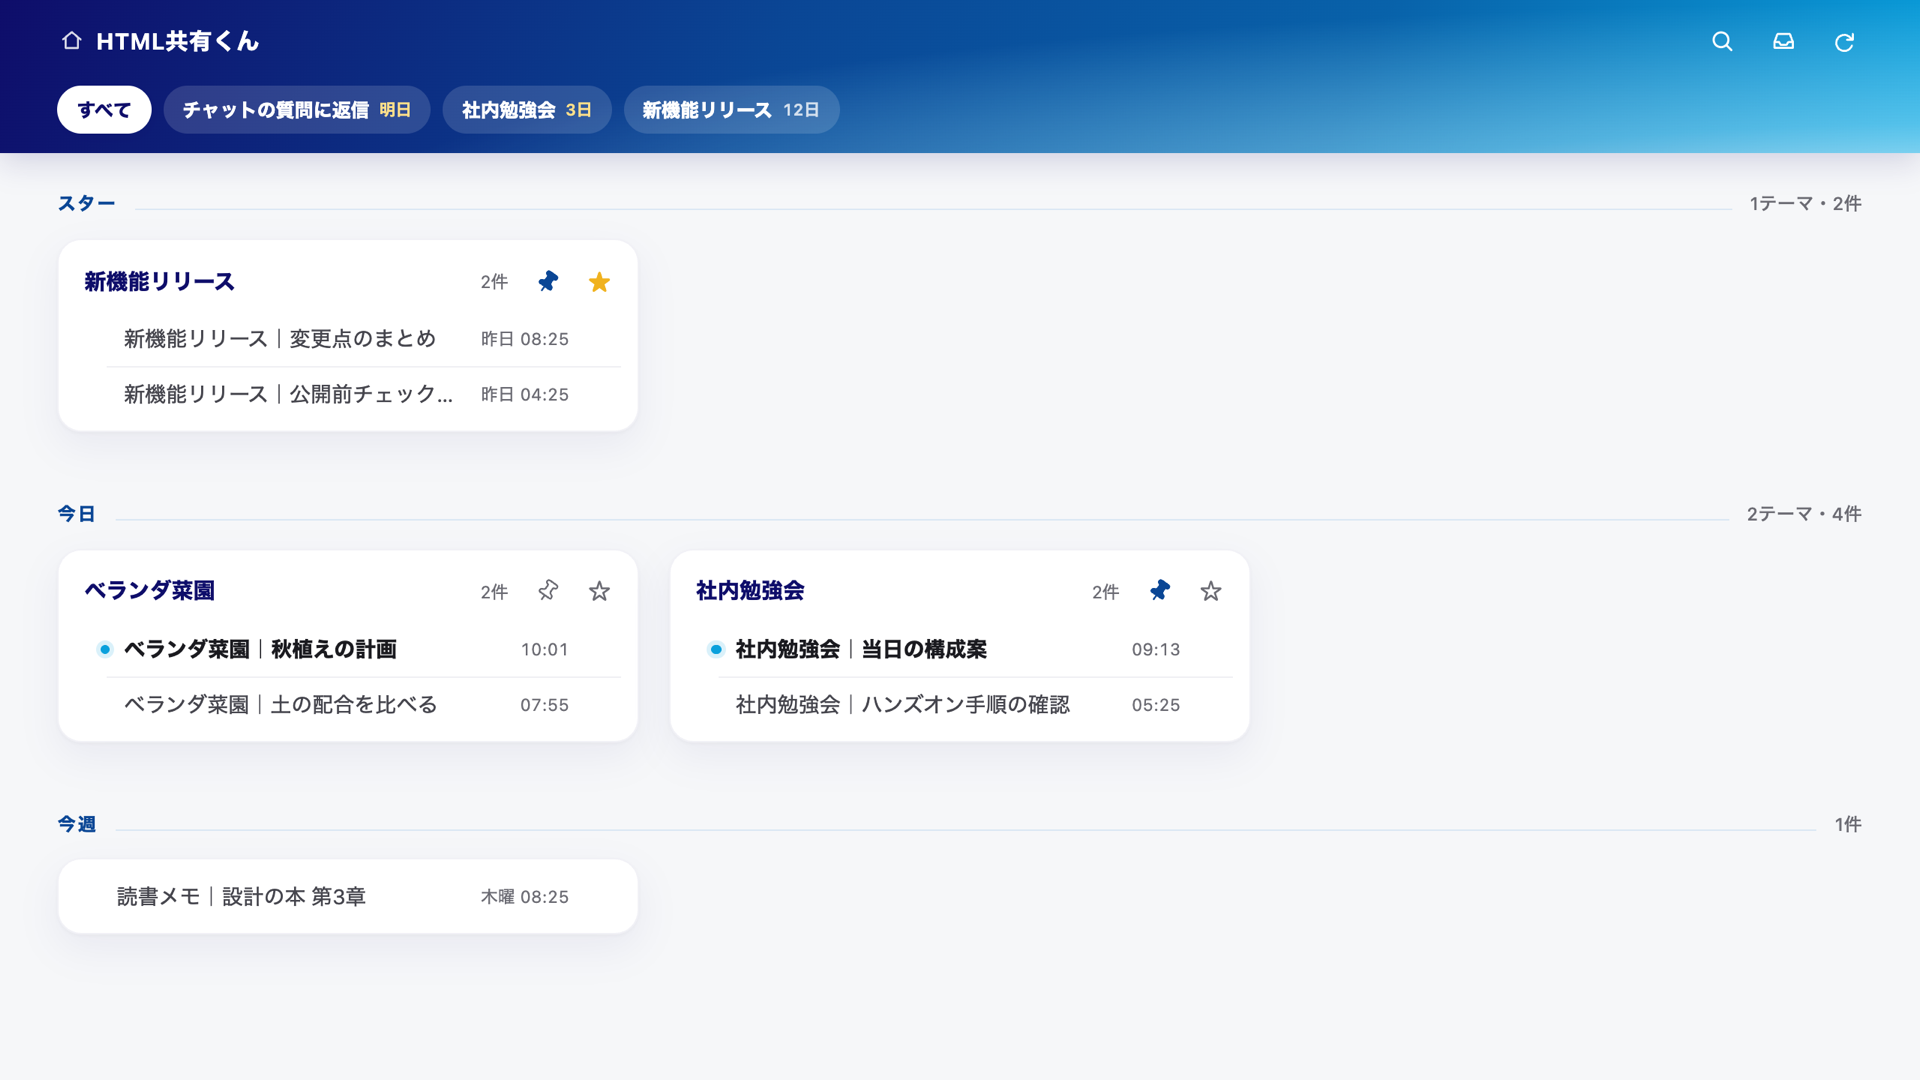
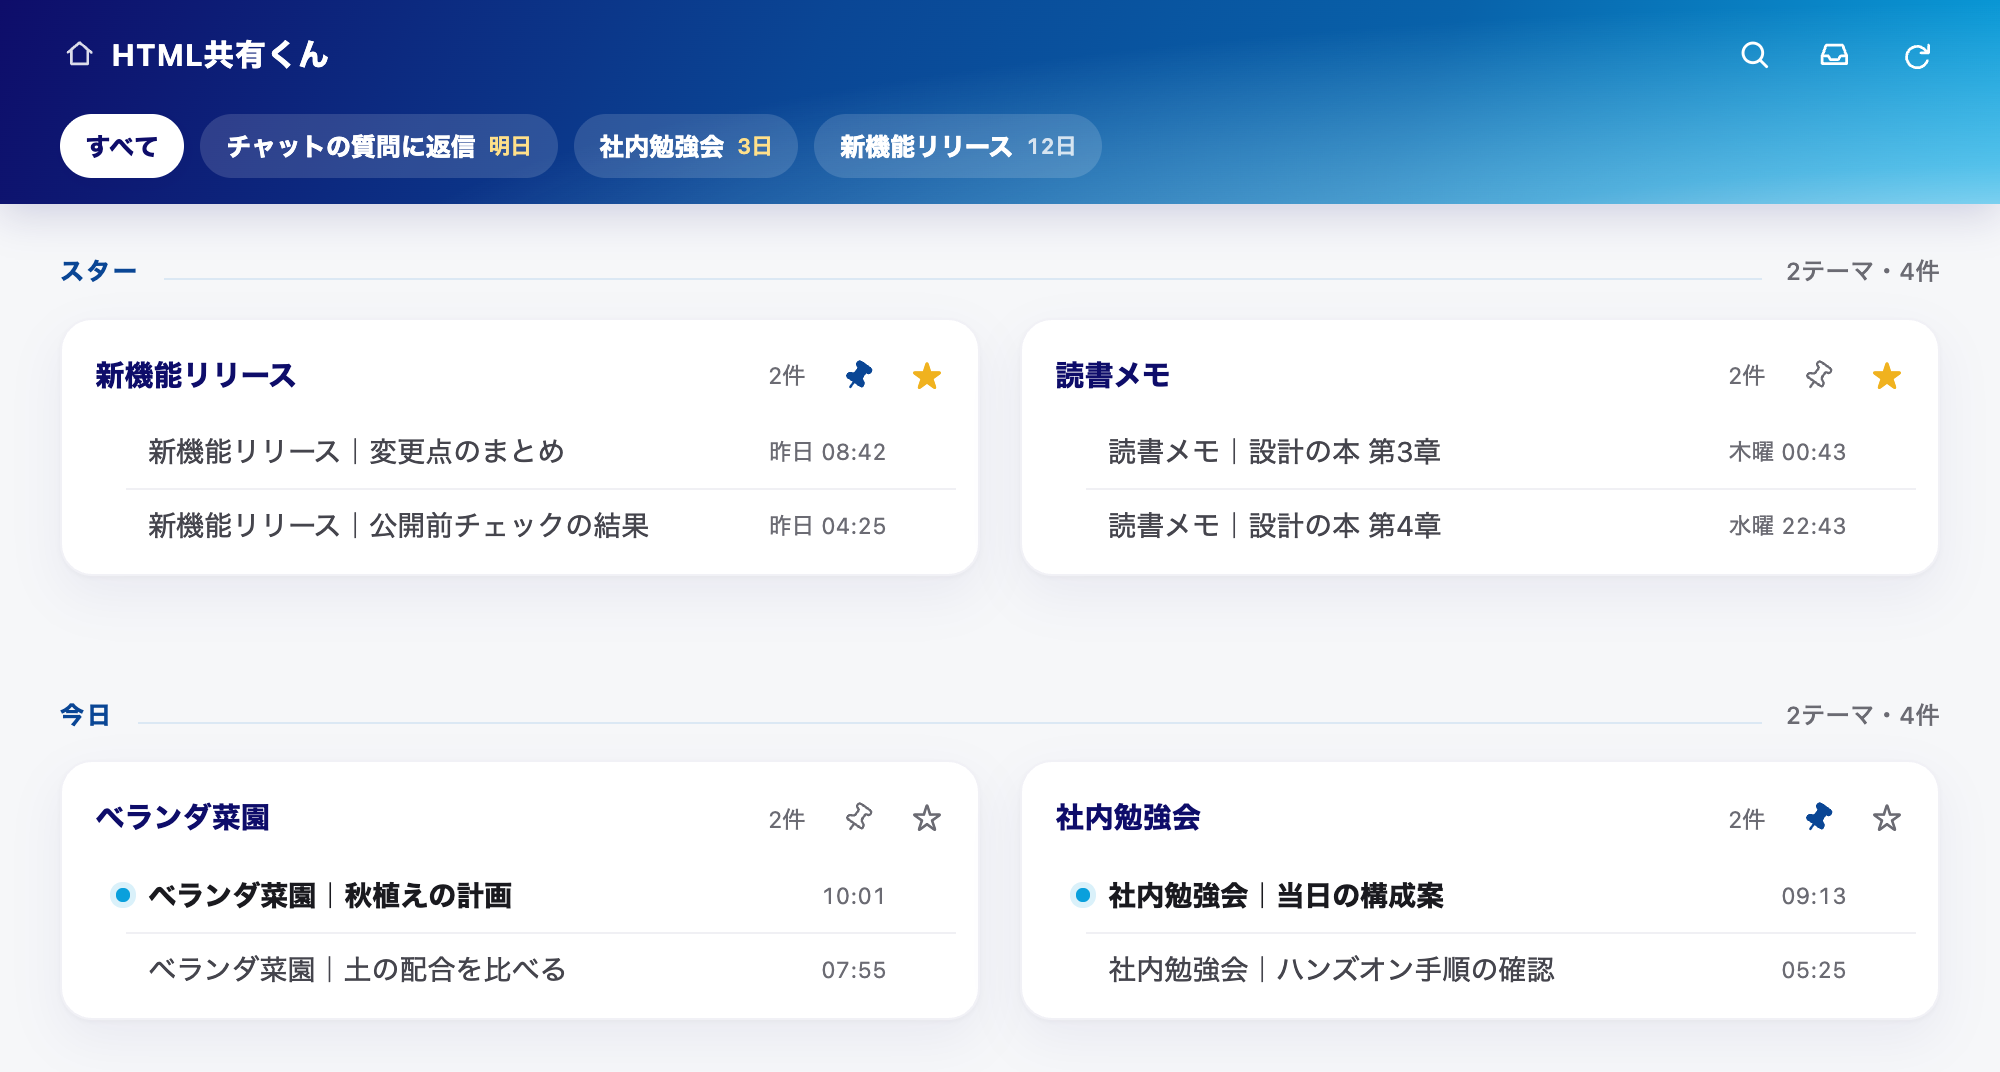
READMEの画像を、余白を詰めた一覧・一番上からのインボックス・ページを開いた画面の3枚に組み直し

diff --git a/README.md b/README.md
@@ -3,9 +3,12 @@
 HTML共有くんは、AIコーディングエージェントに作らせたHTMLを1か所へためて、スマホからも読めるようにするツールです。自分のAWSアカウントで動かすセルフホスト型で、作者へページや回答が送られることはありません。
 
 <p align="center">
-  <img src="docs/images/dashboard.png" alt="HTML共有くんのメインダッシュボード" width="71%">
-  &nbsp;
-  <img src="docs/images/mobile-approval-actions-native.png" alt="AIから届いた承認依頼をスマホで確認" width="26%">
+  <img src="docs/images/dashboard.png" alt="HTML共有くんのメインダッシュボード" width="100%">
+</p>
+<p align="center">
+  <img src="docs/images/mobile-inbox.png" alt="スマホからClaudeへ依頼を置き、Claudeからの確認に答えるインボックス" width="34%">
+  &nbsp;&nbsp;
+  <img src="docs/images/mobile-page.png" alt="登録したページをスマホで開いたところ" width="39%">
 </p>
 
 ## 主な機能
